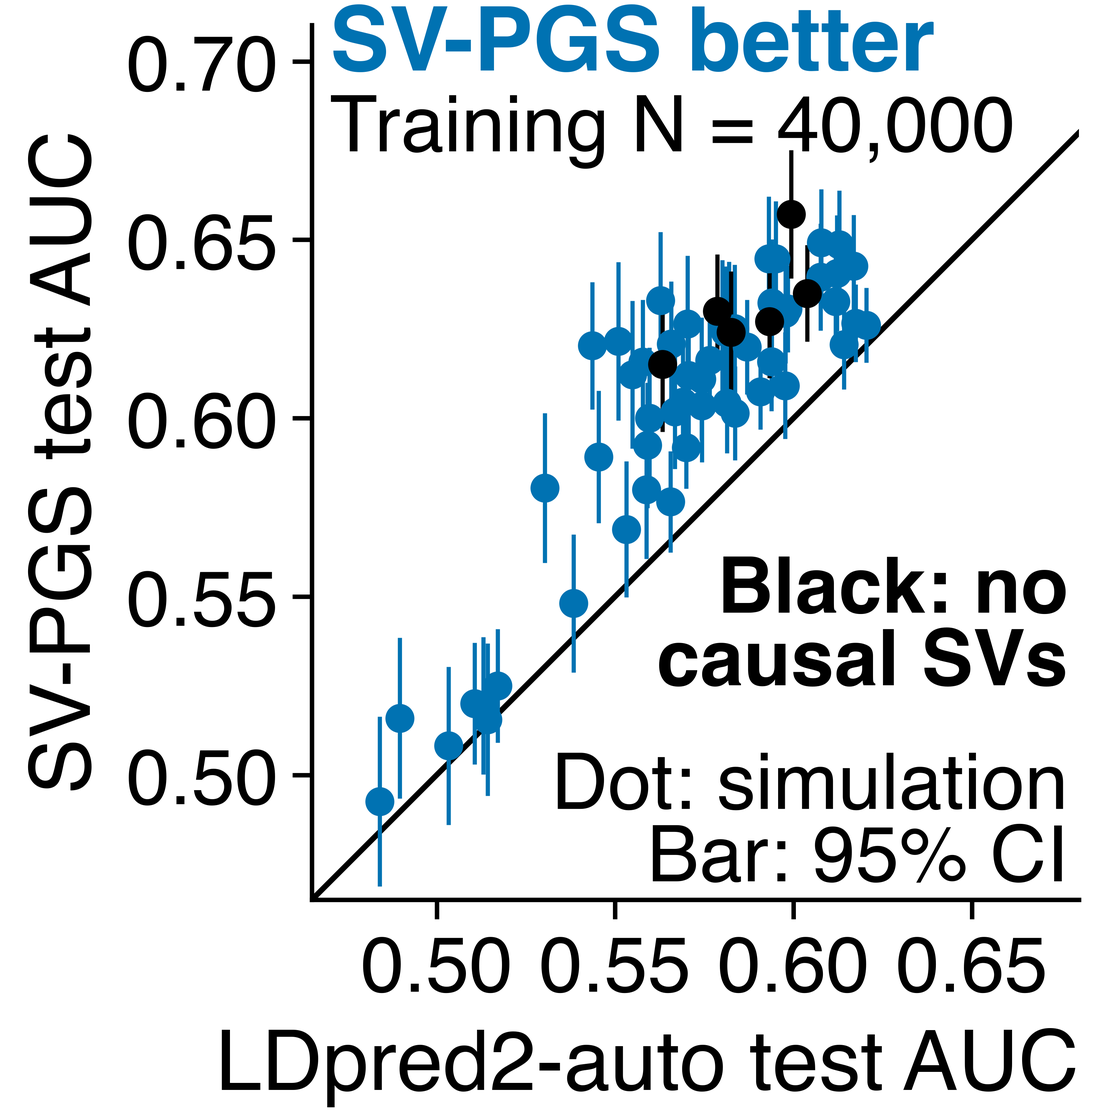
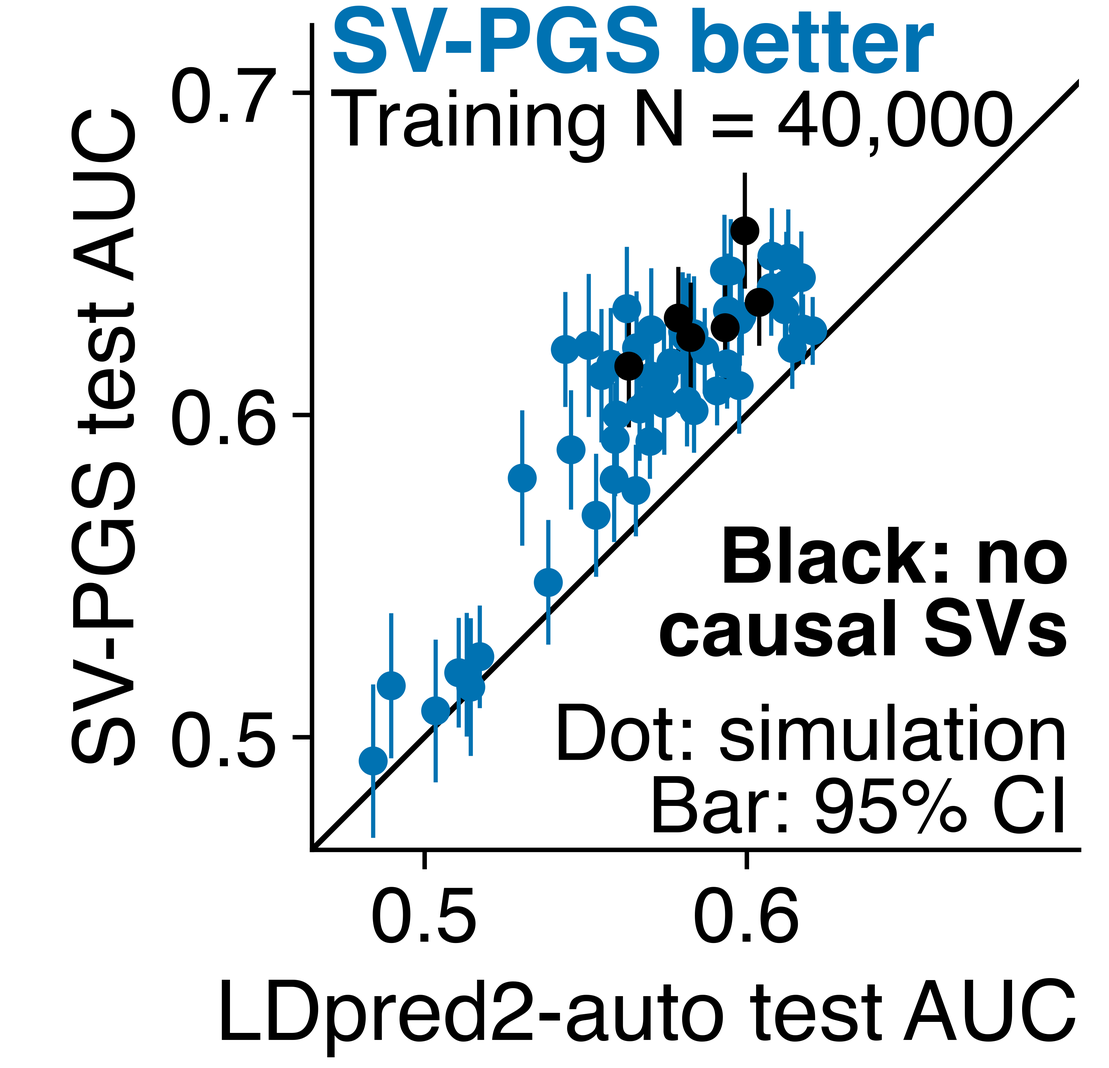
The poster's Discussion says what the results mean, and the references are a small block in the bottom right corner (docs/poster/ashg2026/build_pptx.py, sim_gallery.py, aou_gallery.py). The two bullets are that SV-PGS beat LDpred2-auto with and without causal SVs, so its advantage comes from the mod
Discussion now sits at the foot of the middle column. The QR code and the four references, at 28 pt and one to a line with no References bar, sit at the foot of the right column. The SV-gain forest is 7.47 in tall and the two figures above it 10.65 in. The scatter's y axis runs high enough that its two top lines clear the highest bar, with ticks every 0.1. The All of Us forest is drawn at the column's 10.4 in and fills the column down to the code, its rows and marks growing with it.

Claude-Session: https://claude.ai/code/session_01XTX1JUgLVteQ3pwSnr9aa6

diff --git a/docs/poster/ashg2026/aou_gallery.py b/docs/poster/ashg2026/aou_gallery.py
@@ -39,12 +39,17 @@ from sim_gallery import (INK, POSTER_BAR, POSTER_LABEL, POSTER_MARK, POSTER_PAD,
 HERE = Path(__file__).resolve().parent
 NUMBERS = HERE / "aou_numbers.json"
 OUT = HERE / "figures"
-COLUMN = 9.8
-"""Inches: the poster's right column (build_pptx.py's RIGHT, 10.4) less its INSETs, each figure's width."""
-ROW_GAP = 0.2
+COLUMN = 10.4
+"""Inches: the poster's right column (build_pptx.py's RIGHT), each figure's width, so its type prints at its own size."""
+ROW_GAP = 0.05
 """Inches between one row's name and the next row's: a row is a line of poster type and this gap."""
 LABEL_GAP = 0.3
 """Inches between the widest row name and the plot."""
+HEIGHT = 13.08
+"""Inches: the least height of the gain forest, which fills the right column from its text to the band of Discussion,
+code and references at the poster's foot (build_pptx.py's layout). Rows taller than a line of type have marks up to
+MARK_GROWTH times the poster's."""
+MARK_GROWTH = 1.5
 TRAITS = {
     "ldl_cholesterol": "LDL cholesterol", "egfr": "eGFR", "hypertension": "Hypertension",
     "type_2_diabetes": "Type 2 diabetes", "coronary_artery_disease": "Coronary disease",
@@ -62,29 +67,32 @@ def trait_name(trait: str) -> str:
 
 def forest(rows: list[tuple[str, float, float, float]], xlabel: str, ticks: list[float], tick_text, log: bool,
            reference: float | None = None, estimates: bool = False, bold: frozenset = frozenset(),
-           note: str | None = None):
+           note: str | None = None, least: float = 0.0):
     """A forest at the column's width in the imputed SVs' sky blue: a row per (label, estimate, low, high), its label
     at the left of the canvas and its interval level with it, each estimate an open mark as imputed SVs' are in the
     simulation figures (every All of Us SV is imputed), with the reference drawn (0, or 1 on a log axis, unless given).
     The axis runs from the first tick to the last, or with ``estimates`` symmetric about the reference over the
     estimates alone, so that each estimate's mark clears an arrowhead at the axis's end. Every margin and the rows'
-    pitch are measured from the type, so the forest is as short as its type allows. The labels in ``bold`` are set in
-    bold, and ``note`` is one line under the axis title."""
+    pitch are measured from the type, so the forest is as short as its type allows, unless ``least`` inches is taller:
+    then its rows share that height and its marks grow with them. The labels in ``bold`` are set in bold, and ``note``
+    is one line under the axis title."""
     reference = (1.0 if log else 0.0) if reference is None else reference
     fig = plt.figure(figsize=(COLUMN, 1.0))
     labels = [label for label, *_ in rows]
     weight = {label: "bold" if label in bold else "normal" for label in labels}
     pitch = max(tallest(fig, [label], fontsize=POSTER_STYLE["font.size"], fontweight=weight[label])
                 for label in labels) + ROW_GAP
-    # an arrowhead at the axis's start reaches half its width to the left, toward the names
-    arrow = POSTER_MARK * 0.7 / 2 / 72
-    left = max(widest(fig, [label], fontsize=POSTER_STYLE["font.size"], fontweight=weight[label])
-               for label in labels) + LABEL_GAP + arrow
     # the right margin holds half of the end tick's label; the bottom, the ticks and the axis title
     right = widest(fig, [tick_text(ticks[-1])], fontsize=POSTER_STYLE["font.size"]) / 2 + POSTER_PAD
     line = tallest(fig, [note], fontsize=POSTER_STYLE["font.size"]) + POSTER_PAD if note else 0.0
     top, bottom = POSTER_PAD, under_axes(fig, [xlabel]) + line
-    height = top + bottom + pitch * len(rows)
+    height = max(top + bottom + pitch * len(rows), least)
+    growth = min((height - top - bottom) / len(rows) / pitch, MARK_GROWTH)
+    mark, bar, ring = POSTER_MARK * growth, POSTER_BAR * growth, 6.0 * growth
+    # an arrowhead at the axis's start reaches half its width to the left, toward the names
+    arrow = mark * 0.7 / 2 / 72
+    left = max(widest(fig, [label], fontsize=POSTER_STYLE["font.size"], fontweight=weight[label])
+               for label in labels) + LABEL_GAP + arrow
     fig.set_size_inches(COLUMN, height)
     ax = frame(fig, left, bottom, COLUMN - left - right, height - top - bottom)
     if log:
@@ -92,19 +100,19 @@ def forest(rows: list[tuple[str, float, float, float]], xlabel: str, ticks: list
     low_limit, high_limit = ticks[0], ticks[-1]
     if estimates:
         # inches each estimate keeps from the axis's end: its mark's radius and edge, an arrowhead's half, and a pad
-        clear = (POSTER_MARK / 2 + 3.0) / 72 + arrow + POSTER_PAD
+        clear = (mark / 2 + ring / 2) / 72 + arrow + POSTER_PAD
         reach = max(abs(value - reference) for _, value, _, _ in rows) / (1 - 2 * clear / (COLUMN - left - right))
         reach = max(reach, reference - ticks[0], ticks[-1] - reference)
         low_limit, high_limit = reference - reach, reference + reach
     for row, (label, value, low, high) in enumerate(rows):
-        ax.hlines(row, max(low, low_limit), min(high, high_limit), color=SKY, linewidth=POSTER_BAR, zorder=3,
+        ax.hlines(row, max(low, low_limit), min(high, high_limit), color=SKY, linewidth=bar, zorder=3,
                   capstyle="round")
         for end, edge, marker in ((low, low_limit, "<"), (high, high_limit, ">")):
             if (end < edge) if marker == "<" else (end > edge):
-                ax.plot([edge], [row], marker=marker, markersize=POSTER_MARK * 0.7, color=SKY, markeredgewidth=0,
+                ax.plot([edge], [row], marker=marker, markersize=mark * 0.7, color=SKY, markeredgewidth=0,
                         zorder=3, clip_on=False)
-        ax.plot([value], [row], "o", markersize=POSTER_MARK, color=SKY, markerfacecolor="white", markeredgecolor=SKY,
-                markeredgewidth=6.0, zorder=4)
+        ax.plot([value], [row], "o", markersize=mark, color=SKY, markerfacecolor="white", markeredgecolor=SKY,
+                markeredgewidth=ring, zorder=4)
         ax.text(0, row, label, transform=shifted(ax, -left), ha="left", va="center", fontweight=weight[label])
     ax.axvline(reference, color=INK, linewidth=4.0, zorder=2)
     ax.set_yticks([])
@@ -138,7 +146,7 @@ def baseline_relative(g: float) -> float:
     """g, the change in r² from adding SVs as a fraction of the two models' mean r², as a fraction of the r² without SVs:
     (c - b) / ((c + b) / 2) = g gives (c - b) / b = 2g / (2 - g). The map increases, so it takes an interval's ends to
     the same interval's ends, and a weighted g, sum a (c - b) / sum a (c + b) / 2, to sum a (c - b) / sum a b with the
-    same weights. build_pptx.py's aou_result uses the same map."""
+    same weights."""
     return 2 * g / (2 - g)
 
 
@@ -151,21 +159,22 @@ COMBINED = "All traits"
 
 def gain_figure(matched: list[dict], common: dict | None = None) -> tuple:
     """Each trait's change in held-out partial r² from adding SVs, relative to the r² without SVs (baseline_relative of
-    the pre-specified g), with its 95% interval, a row per trait, and a bold row for the traits' common g when
-    ``common`` is given. A trait whose with-SV fit stopped before converging has a dagger, explained under the axis."""
-    def ends(row):
-        return [baseline_relative(row[key] / 100) for key in ("relative", "relative_lower", "relative_upper")]
-
-    rows = [(trait_name(row["trait"]) + ("†" if row.get("unconverged") else ""), *ends(row)) for row in matched]
+    the pre-specified g), with its 95% interval, a row per trait, and when ``common`` is given a bold row for the traits'
+    common g itself, relative to the two arms' mean r². The two scales differ by about 0.1 percentage point at these
+    gains, so one axis title serves both. A trait whose with-SV fit stopped before converging has a dagger, explained
+    under the axis."""
+    keys = ("relative", "relative_lower", "relative_upper")
+    rows = [(trait_name(row["trait"]) + ("†" if row.get("unconverged") else ""),
+             *(baseline_relative(row[key] / 100) for key in keys)) for row in matched]
     if common:
-        rows.append((COMBINED, *ends(common)))
+        rows.append((COMBINED, *(common[key] / 100 for key in keys)))
     note = UNCONVERGED if any(row.get("unconverged") for row in matched) else None
     # the axis spans the estimates, not their intervals; an interval that runs past it ends in an arrowhead
     fig = forest(rows, "Change in r² with SVs (%)", span([value for _, value, _, _ in rows]), percent, log=False,
-                 estimates=True, bold=frozenset({COMBINED}), note=note)
+                 estimates=True, bold=frozenset({COMBINED}), note=note, least=HEIGHT)
     return fig, ["Change in held-out partial r² from adding SVs to SV-PGS for each trait, relative to the r² without "
                  "SVs, with 95% intervals, an arrowhead marking an interval that runs past the axis"
-                 + (", and the traits' common change in bold" if common else "")]
+                 + (", and in bold the traits' common change relative to the two models' mean r²" if common else "")]
 
 
 def main() -> None:

diff --git a/docs/poster/ashg2026/build_pptx.py b/docs/poster/ashg2026/build_pptx.py
@@ -62,7 +62,7 @@ COLUMNS = ((MARGIN, LEFT), (MARGIN + LEFT + GUTTER, MIDDLE), (48 - MARGIN - RIGH
 INSET = 0.3
 """Text sits this far inside its column, under the section bars' labels."""
 BAR, BAR_SIZE = 1.25, 72
-BODY, HEADLINE, GLOSS, REFERENCE = 56, 60, 56, 50
+BODY, HEADLINE, GLOSS, REFERENCE, PENDING = 56, 60, 56, 28, 50
 LINE_PITCH = 1.066
 """Line pitch per point of type at 90% line spacing, measured on the LibreOffice render."""
 SHIFTED_PITCH = 0.25
@@ -140,7 +140,7 @@ def people(count: int) -> str:
 
 def copy(numbers: dict) -> dict:
     """The poster's sentences, each number from the gallery figure that shows it."""
-    accuracy, wins, gain, svs = numbers["fig1"], numbers["poster_wins"], numbers["poster_sv_gain"], numbers["fig5"]
+    accuracy, gain, svs = numbers["fig1"], numbers["poster_sv_gain"], numbers["fig5"]
     rows = gain["rows"]  # true and imputed: [mean, lower, upper, simulations]; share: [ratio, lower, upper]
     simulations = rows["all"]["true"][3] + rows["null"]["true"][3]
     return {
@@ -170,11 +170,15 @@ def copy(numbers: dict) -> dict:
         "aou": ["We imputed SVs from 12,212 long-read assemblies into 100,000 All of Us"
                 f"{cite('All of Us 2019 N Engl J Med')} genomes with GLIMPSE2{cite('Rubinacci 2023 Nat Genet')}",
                 *aou_matched()],
-        # the mean gain over the scatter's simulations at its training N (40,000). Without causal SVs the gain is
-        # positive at every training N, and at 40,000 the h² = 0.01 architecture gains about a quarter of the rest
+        # what the simulations mean. SV-PGS's AUC gain over LDpred2-auto at training N 40,000 holds without causal
+        # SVs (wins' null_gain, its 95% interval above 0), so causal SVs are not its source. Imputed SVs' gain is
+        # largest where the causal SVs are well imputed, where it matches the gain with true SV genotypes (the SV-gain
+        # forest's well_imputed and all rows: imputed share of the true gain about 1 against about a third)
         "discussion": [
-            f"SV-PGS gained {wins['gain'][0]:.3f} AUC over LDpred2-auto on whole chr22",
-            "The gain remained without causal SVs and was smaller at h² = 0.01",
+            "SV-PGS beat LDpred2-auto with and without causal SVs, so its advantage comes from the model and its "
+            "larger variant set",
+            "Adding imputed SVs helped most when the causal SVs were well imputed, so the gain depends on SV "
+            "imputation accuracy",
         ],
     }
 
@@ -190,27 +194,23 @@ def aou_matched() -> list[str]:
             "Variants with MAF ≥ 1% and imputation r² ≥ 0.3: HapMap3 SNVs and SVs"] if rows else []
 
 
-def baseline_relative(g: float) -> float:
-    """aou_gallery.baseline_relative: g, a change in r² as a fraction of the two models' mean r², as a fraction of the
-    r² without SVs, 2g / (2 - g), so the Discussion gives the same change the All of Us forest draws."""
-    return 2 * g / (2 - g)
-
-
 def signed(share: float) -> str:
     """A share in percent to one decimal, with a minus sign for a loss."""
     return f"{share * 100:.1f}%".replace("-", "−")
 
 
 def aou_result() -> list[str]:
-    """The All of Us result as one Discussion bullet when aou_numbers.json's "matched" holds the traits' "common" g: its
-    change in r² relative to the r² without SVs, with its 95% interval."""
+    """What the All of Us result means, as two Discussion bullets, when aou_numbers.json's "matched" holds the traits'
+    "common" g: the pre-specified primary's change in r² as a fraction of the two arms' mean r², whose one-sided 95%
+    upper bound ("relative_bound", in percent) caps the gain the traits could have from imputed SVs."""
     path = HERE / "aou_numbers.json"
     common = json.loads(path.read_text()).get("matched", {}).get("common") if path.is_file() else None
     if not common:
         return []
-    value, lower, upper = (baseline_relative(common[key] / 100) for key in ("relative", "relative_lower", "relative_upper"))
-    return [f"In All of Us, SVs changed r² by {signed(value)} (95% CI {signed(lower)} to {signed(upper)}) over "
-            f"{common['traits']} traits"]
+    return [f"In All of Us, imputed SVs raised r² by at most {signed(common['relative_bound'] / 100)} across "
+            f"{common['traits']} traits, so these traits have few SVs with large effects, or their causal SVs are "
+            "poorly imputed",
+            "Long-read SV genotypes in the same people would distinguish between these two explanations"]
 
 
 # ------------------------------------------------------------------ DrawingML
@@ -332,7 +332,7 @@ def placeholder(shape_id: int, x: float, y: float, width: float, height: float, 
     """A dashed panel where an All of Us figure will go."""
     text = "".join(
         Para([(words, flags)], size, bullet=False, colour=colour, after=after, align="ctr").xml()
-        for words, flags, size, colour, after in (("All of Us · result pending", "b", REFERENCE, TEAL, 18),
+        for words, flags, size, colour, after in (("All of Us · result pending", "b", PENDING, TEAL, 18),
                                                   (title, "b", HEADLINE, INK, 12), (detail, "", GLOSS, GREY, 0))
     )
     return (
@@ -651,14 +651,20 @@ def build() -> None:
         xml = delete(xml, shape_id)
     xml = duplicate(duplicate(xml, 93, 118, "Simulation results bar"), 93, 119, "All of Us bar")
 
+    # the template's References bar goes: the references are a small block at the end of the reading order
+    xml = delete(xml, 96)
+
     gallery = {name: GALLERY / f"{name}.png" for name in (
         "poster_wins", "poster_sv_gain", "poster_accuracy_by_training_size", "poster_imputation_accuracy",
         "poster_model")}
-    references = [Para([(f"{SUPERSCRIPT[index]}{reference}", "")], BODY, bullet=False, after=0)
-                  for index, reference in enumerate(REFERENCES, start=1)]
-    half = math.ceil(len(references) / 2)
-    # the poster reads Introduction and Methods, the simulation's results, All of Us, then Discussion at the foot of
-    # the last column. The references take the foot of the middle column in two columns.
+    # the four references in small type under the repository's QR code, one to a line
+    references = Block("text", [Para([(f"{SUPERSCRIPT[index]}{reference}", "")], REFERENCE, bullet=False, after=0)
+                                for index, reference in enumerate(REFERENCES, start=1)])
+    discussion = [bar(95, "Discussion"), text(bullets([*words["discussion"], *aou_result()]))]
+    ending = [code(words["code"]), references]
+    # the poster reads Introduction and Methods, the simulation's results, All of Us, then Discussion at the foot of the
+    # middle column, and the code and the references at the foot of the right one, the references in the poster's
+    # bottom right corner. The All of Us result (its common gain) adds two Discussion bullets and every trait's row.
     columns = [
         [
             bar(97, "Introduction"), text(bullets(words["introduction"])),
@@ -673,18 +679,17 @@ def build() -> None:
                 [figure(gallery["poster_wins"], legend=GALLERY / "fig2_gain_over_ldpred2.txt")]),
             Block("text", [Para([(words["gain_note"], "")], bullet=False, after=0)], gap="section"),
             figure(gallery["poster_sv_gain"]),
-            # the References bar a block's gap under the forest's axis title, so the forest takes the height
-            Block("bar", (96, "References"), gap="block"), row([text(references[:half])], [text(references[half:])]),
         ],
-        [
-            bar(119, "All of Us"), text(bullets(words["aou"])), *aou_blocks(),
-            bar(95, "Discussion"), text(bullets([*aou_result(), *words["discussion"]])),
-            code(words["code"]),
-        ],
+        [bar(119, "All of Us"), text(bullets(words["aou"])), *aou_blocks()],
     ]
     poster = Poster(xml, rels, work / "ppt/media")
-    for (x, width), blocks in zip(COLUMNS, columns):
-        poster.stack(blocks, x, TOP, width, BOTTOM)
+    floors = [BOTTOM]
+    for (x, width), blocks in zip(COLUMNS[1:], (discussion, ending)):
+        top = BOTTOM - poster.stack_height(blocks, width)
+        poster.stack(blocks, x, top, width, None)
+        floors.append(top - GAPS["section"])
+    for (x, width), blocks, floor in zip(COLUMNS, columns, floors):
+        poster.stack(blocks, x, TOP, width, floor)
     xml = poster.xml.replace("</p:spTree>", "".join(poster.shapes) + "</p:spTree>")
     rels = poster.rels
 

diff --git a/docs/poster/ashg2026/sim_gallery.py b/docs/poster/ashg2026/sim_gallery.py
@@ -811,7 +811,7 @@ sources written beside their marks. A poster figure carries no legend and no tit
 figure's own labels, state its message."""
 POSTER_LINE, POSTER_MARK, POSTER_BAR = 8.0, 26.0, 6.0
 """Points: a data line's width, a mean's marker and an interval's line in the poster's figures."""
-POSTER_HEIGHT = 11.15
+POSTER_HEIGHT = 10.65
 """Inches: the height of the two figures side by side at the top of the poster's middle column."""
 POSTER_HALF = 11.06
 """Inches: the width each of those two figures is placed at (half of build_pptx.py's 22.92 in middle column less its
@@ -926,6 +926,11 @@ def poster_accuracy_figure(grids, summary):
     return fig
 
 
+WINS_ABOVE, WINS_INDENT = 0.2, 0.18
+"""Inches: how far the scatter's first line at the top left reaches over its axes, and how far right of the y axis the
+two lines start."""
+
+
 def poster_wins_figure(grids):
     """SV-PGS's test AUC against LDpred2-auto's in every simulation at the largest training size, over the line of equal
     AUC: one dot per simulation (black with no causal SVs), with the 95% interval of the paired AUC difference drawn
@@ -952,11 +957,16 @@ def poster_wins_figure(grids):
     top, bottom, left = 0.25, under_axes(fig), ticks + 1.6
     width, height = POSTER_HALF - left - 0.3, POSTER_HEIGHT - top - bottom
     ax = frame(fig, left, bottom, width, height)
-    # one scale on both axes, so the line of equal AUC runs at 45 degrees: 0.465 to 0.68 along the shorter axis, and
-    # the longer one runs on at the same scale
-    low = 0.465
-    scale = (0.68 - low) / min(width, height)
-    right, upper = low + scale * width, low + scale * height
+    # two lines over the dots at the top left, the first reaching WINS_ABOVE inches into the top margin: which side is
+    # SV-PGS's, then the training size
+    lines = ("SV-PGS better", f"Training N = {size:,}")
+    first = tallest(fig, [lines[0]], fontsize=POSTER_NAME, fontweight="bold")
+    need = first + tallest(fig, [lines[1]], fontsize=POSTER_TYPE) - WINS_ABOVE + POSTER_PAD
+    # one scale on both axes, so the line of equal AUC runs at 45 degrees: up the y axis from 0.465 to at least 0.705,
+    # and far enough that the second line clears the highest bar, and along the x axis at the same scale
+    low, reach = 0.465, (ours + half).max()
+    upper = max(0.705, (reach * height - low * need) / (height - need))
+    right = low + (upper - low) / height * width
     ax.axline((low, low), slope=1, color=INK, linewidth=4.0, zorder=1)
     for chosen, color in ((~null, SV_PGS), (null, INK)):
         ax.vlines(theirs[chosen], ours[chosen] - half[chosen], ours[chosen] + half[chosen], color=color,
@@ -966,17 +976,19 @@ def poster_wins_figure(grids):
     ax.set_xlim(low, right)
     ax.set_ylim(low, upper)
     ax.set_aspect("equal")
-    for axis, end in ((ax.xaxis, right), (ax.yaxis, upper)):
-        levels = np.arange(0.5, end, 0.05)
-        axis.set_ticks(levels, [plain(level) for level in levels])
+    # a tick every 0.1, the x axis's last one far enough from its end that its label stays within the 0.3 in margin
+    inches = height / (upper - low)
+    for axis, levels in ((ax.xaxis, [level for level in np.arange(0.5, right, 0.1)
+                                     if (right - level) * inches + 0.3 >= ticks / 2]),
+                         (ax.yaxis, np.arange(0.5, upper, 0.1))):
+        axis.set_ticks(levels, [plain(level, 1) for level in levels])
     # the x axis's title runs longer than its axis, so it ends at the axis's far end
     ax.set_xlabel(POSTER_X_TITLES[1], loc="right")
     ax.set_ylabel("SV-PGS test AUC")
-    # over the dots at the top left, on one line each and reaching into the top margin, so the second line clears the
-    # highest bar: which side is SV-PGS's, then the training size
-    ax.text(low + 0.005, upper + 0.006, "SV-PGS better", color=SV_PGS, fontsize=POSTER_NAME, fontweight="bold",
+    ax.text(0, 1, lines[0], transform=shifted(ax, WINS_INDENT, WINS_ABOVE, data_rows=False), color=SV_PGS,
+            fontsize=POSTER_NAME, fontweight="bold", ha="left", va="top")
+    ax.text(0, 1, lines[1], transform=shifted(ax, WINS_INDENT, WINS_ABOVE - first, data_rows=False), color=INK,
             ha="left", va="top")
-    ax.text(low + 0.005, upper - 0.019, f"Training N = {size:,}", color=INK, ha="left", va="top")
     # under the line, where no dot falls: what a dot and its bar are at the foot, the key to the black dots over them
     ax.text(right - 0.003, low + 0.003, "Dot: simulation\nBar: 95% CI", color=INK, ha="right", va="bottom",
             linespacing=1.0)
@@ -991,10 +1003,10 @@ sv_min_realized_r2)."""
 POSTER_GAIN, POSTER_GENOTYPES = 22.92, 11.4
 """Inches: the widths of the SV gain forest (the poster's middle column, build_pptx.py's MIDDLE) and the imputation
 figure (the left column, LEFT), each placed at its column's full width."""
-POSTER_GAIN_HEIGHT = 9.0
-"""Inches: the SV gain forest's height, which fills the middle column from the training-size figures to the References
-at its foot (build_pptx.py's layout leaves 0.02 in to spare)."""
-GAIN_WEIGHT, GAIN_OFFSET = 1.6, 0.24
+POSTER_GAIN_HEIGHT = 7.47
+"""Inches: the SV gain forest's height, which fills the middle column from the training-size figures to the band of
+Discussion, code and references at its foot (build_pptx.py's layout)."""
+GAIN_WEIGHT, GAIN_OFFSET = 2.0, 0.24
 """The SV gain forest's marks and intervals relative to the poster's (POSTER_MARK, POSTER_BAR), and the rows each
 source's interval sits above (true genotypes) or below (imputed SVs) its set's row."""
 FOREST_SIZES = SIZES[:3]

diff --git a/tests/test_poster_figures.py b/tests/test_poster_figures.py
@@ -133,11 +133,10 @@ def test_the_all_of_us_forest_marks_an_unconverged_fit_and_draws_the_common_gain
     plt.close(fig)
 
 
-def test_the_forest_and_the_discussion_give_the_change_relative_to_the_r2_without_svs():
+def test_the_forest_gives_each_traits_change_relative_to_the_r2_without_svs():
     # c = 0.12 against b = 0.10: g = 0.02 / 0.11, and the change relative to b is 20%
     g = 0.02 / 0.11
     assert aou_gallery.baseline_relative(g) == pytest.approx(0.2)
-    assert build_pptx.baseline_relative(g) == pytest.approx(0.2)
     # a weighted g maps to the weighted change relative to b with the same weights
     weights, before, after = np.array([2.0, 1.0]), np.array([0.10, 0.05]), np.array([0.11, 0.04])
     weighted = (weights * (after - before)).sum() / (weights * (after + before) / 2).sum()
@@ -145,10 +144,13 @@ def test_the_forest_and_the_discussion_give_the_change_relative_to_the_r2_withou
                                                                     / (weights * before).sum())
 
 
-def test_the_discussion_states_the_common_all_of_us_change_only_when_it_is_given(monkeypatch, tmp_path):
+def test_the_discussion_bounds_the_common_all_of_us_gain_only_when_it_is_given(monkeypatch, tmp_path):
     monkeypatch.setattr(build_pptx, "HERE", tmp_path)
     assert build_pptx.aou_result() == []
     (tmp_path / "aou_numbers.json").write_text(json.dumps({"matched": {"rows": [], "common": {
-        "relative": -2.0, "relative_lower": -4.0, "relative_upper": 0.5, "traits": 10}}}))
-    line, = build_pptx.aou_result()
-    assert line == "In All of Us, SVs changed r² by −2.0% (95% CI −3.9% to 0.5%) over 10 traits"
+        "relative": -2.0, "relative_lower": -4.0, "relative_upper": 0.5, "relative_bound": 0.1, "traits": 10}}}))
+    bound, follow_up = build_pptx.aou_result()
+    # the primary's one-sided 95% upper bound on the common g
+    assert bound == ("In All of Us, imputed SVs raised r² by at most 0.1% across 10 traits, so these traits have few "
+                     "SVs with large effects, or their causal SVs are poorly imputed")
+    assert follow_up == "Long-read SV genotypes in the same people would distinguish between these two explanations"
